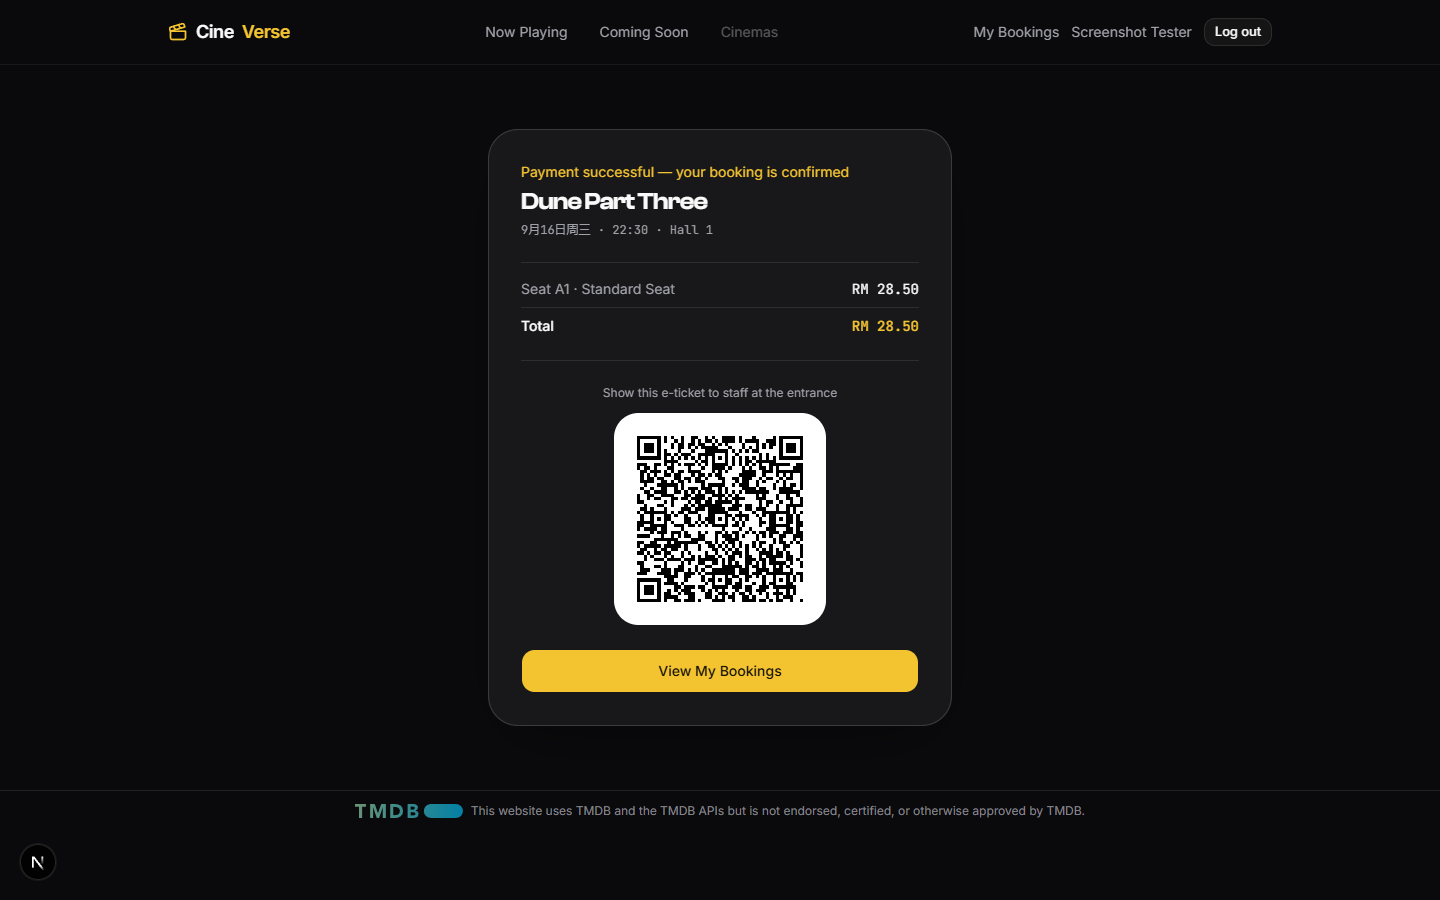
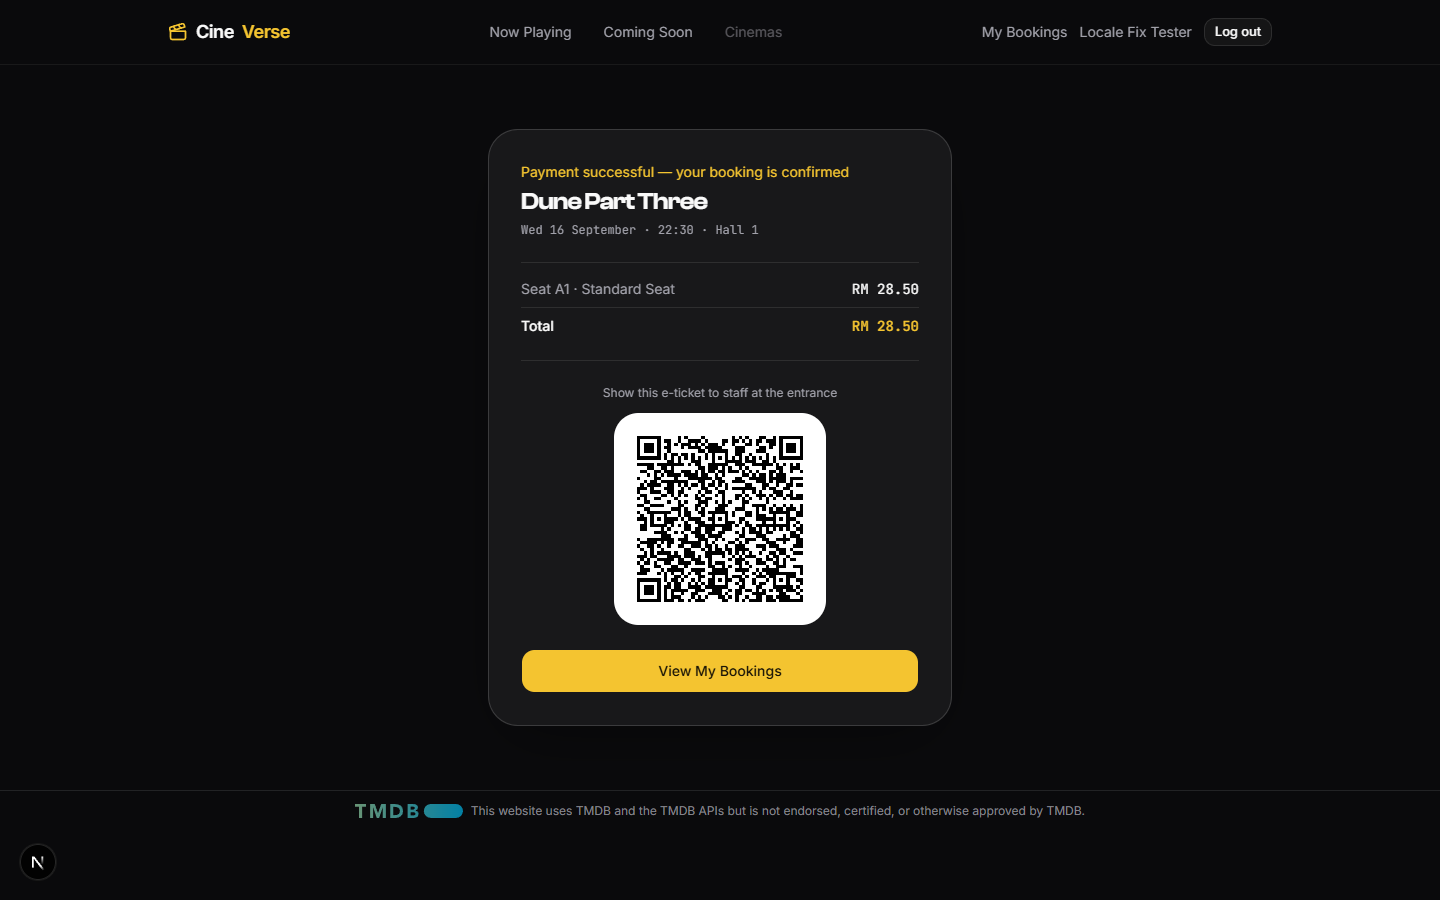
fix(i18n): stop formatting dates in zh-CN, unify on en-GB (#29)
Three translation-to-English audit batches only ever scanned visible
JSX text, so they missed locale arguments passed to formatters —
Intl.DateTimeFormat("zh-CN", ...) in lib/format.ts's formatShowDate/
formatShowTime (used on the seat map, e-ticket, and admin occupancy
chart), the root <html lang="zh-CN">, and an unlocaled
toLocaleDateString() call on admin/users' Joined column that silently
followed whatever locale the browser happened to default to.

Unified all of them on en-GB, matching the three spots (profile's
joined date, the payment countdown deadline, ticket redemption
timestamp) that already used it, rather than introducing a third
format into the app.

diff --git a/frontend/src/app/admin/users/page.tsx b/frontend/src/app/admin/users/page.tsx
@@ -187,7 +187,7 @@ export default function AdminUsersPage() {
                         <Badge variant={user.role === "ADMIN" ? "default" : "secondary"}>{user.role}</Badge>
                       </td>
                       <td className="px-3 py-2 font-mono text-foreground">
-                        {user.createdAt ? new Date(user.createdAt).toLocaleDateString() : "-"}
+                        {user.createdAt ? new Date(user.createdAt).toLocaleDateString("en-GB") : "-"}
                       </td>
                       <td className="px-3 py-2 text-right">
                         <div className="flex justify-end gap-2">

diff --git a/frontend/src/lib/format.ts b/frontend/src/lib/format.ts
@@ -7,7 +7,7 @@
 const CINEMA_TIME_ZONE = "Asia/Kuala_Lumpur";
 
 export function formatShowDate(iso: string): string {
-  return new Intl.DateTimeFormat("zh-CN", {
+  return new Intl.DateTimeFormat("en-GB", {
     timeZone: CINEMA_TIME_ZONE,
     month: "long",
     day: "numeric",
@@ -16,7 +16,7 @@ export function formatShowDate(iso: string): string {
 }
 
 export function formatShowTime(iso: string): string {
-  return new Intl.DateTimeFormat("zh-CN", {
+  return new Intl.DateTimeFormat("en-GB", {
     timeZone: CINEMA_TIME_ZONE,
     hour: "2-digit",
     minute: "2-digit",

diff --git a/frontend/src/app/layout.tsx b/frontend/src/app/layout.tsx
@@ -47,7 +47,7 @@ export default function RootLayout({
 }>) {
   return (
     <html
-      lang="zh-CN"
+      lang="en-GB"
       data-scroll-behavior="smooth"
       className={`dark ${inter.variable} ${jetbrainsMono.variable} ${clashDisplay.variable} h-full antialiased`}
     >

diff --git a/CLAUDE.md b/CLAUDE.md
@@ -2043,6 +2043,56 @@ scrollWidth: 610, isScrollingInternally: true`(容器正确收缩到可用
 完整改动文件清单、`AdminSidebar` 组件结构见对应源文件注释,不在这里
 重复。
 
+### 日期格式化 locale 遗留:zh-CN 硬编码修复(2026-08-16)
+
+三批"翻译成英文"的审计(i18n batch 1/2/3,分别覆盖客户端页面/组件、
+admin 页面/组件)都是按可见 UI 文本做的审计,遗漏了一类不会被这种审计
+方式抓到的内容:**运行时拼接生成的格式化输出**,不是写死在 JSX 里的
+字符串字面量。这次是在 README 截图核实环节偶然发现的——选座页/电子票
+页的日期显示成了"9月15日周二"这样的中文格式,而页面其余所有文字都是
+英文。
+
+排查(按要求先 grep 整个 `frontend/src` 确认全部受影响位置,不是改一个
+地方就假设完事)发现三处,不是一处:
+
+- **`lib/format.ts` 的 `formatShowDate`/`formatShowTime`**——两个函数都
+  硬编码 `Intl.DateTimeFormat("zh-CN", ...)`。这是被复用最广的一处:
+  选座页头部、电子票页、admin 占用率图表的 x 轴标签等,所有显示场次
+  日期/时间的地方都经过这两个函数。
+- **`app/layout.tsx` 根 `<html lang="zh-CN">`**——文档级别的语言声明,
+  影响屏幕阅读器/浏览器翻译提示/拼写检查,不是页面可见文本,字符串
+  扫描 UI 文案不会碰到这一行。
+- **`app/admin/users/page.tsx` 的 `user.createdAt` 那一列,调用
+  `toLocaleDateString()` 时完全没传 locale 参数**——这一条比前两条更
+  隐蔽:不是硬编码 `zh-CN`,而是跟随浏览器/运行环境的默认 locale,这次
+  截图会话验证时才发现这个环境的默认 locale 恰好是中文——换一台机器/
+  换一个浏览器配置,这一列显示成什么完全不确定,是三处里唯一一处
+  "不确定性 bug"而不是"确定性但选错了值"的 bug。
+
+**统一改成 `en-GB`,不是 `en-US`**——不是这次新定的选择,是延续项目里
+已经存在的既定选择:`profile` 页的入会日期、支付倒计时的截止时刻、电子
+票核销时间戳三处早就是 `en-GB`,这次只是把剩下的几处也归并到同一个值,
+避免项目里同时存在 `en-GB`/`en-US`/环境默认三种不同的日期格式表现。
+
+**给以后类似审计的提醒**:检查"翻译完整性"不能只对 JSX 里的字符串字面
+量做文本扫描——`Intl.DateTimeFormat`/`toLocaleDateString`/
+`toLocaleString` 这类"运行时根据 locale 参数拼出格式化文本"的调用,
+以及 `<html lang>` 这类属性值,产出的中文(或任何非英文)内容不会以能
+被简单字符串搜索命中的形式出现在源码里(`zh-CN` 这个字符串本身能被
+grep 到,但它旁边不会有任何看起来像中文的字符),必须专门再过一遍
+`grep -rn "Intl\.DateTimeFormat\|toLocaleDateString\|toLocaleString\|lang="`
+才能完整覆盖。这次三处里有两处(`layout.tsx`、`admin/users/page.tsx`)
+不是最初点名的目标(`lib/format.ts`),是靠这次扩大化的 grep 才带出来的。
+
+**验证**:`npm run build`/`npm run lint` 干净。用真实本地实例(临时
+3001/8083,复用同一套 Postgres/Redis 容器)重新走了一遍选座页→注册→
+选座→确认→(直接改库标记 CONFIRMED,绕过 Stripe)→电子票页这条链路,
+以及 admin dashboard 的占用率图表,三处日期显示均确认变成英文
+("Tue 15 September"/"Wed 16 September" 这类格式,不再是"9月15日周二");
+`admin/users` 的 Joined 列也确认变成 "01/08/2026" 这样的 en-GB 数字
+格式。README 里此前那一批截图中带中文日期的两张(选座页、电子票页)
+连同展示占用率图表 x 轴的 admin dashboard 一并重新截图替换。
+
 ### Backlog(MVP不做,时间充裕再加)
 - 促销/会员积分
 - 评价评分
